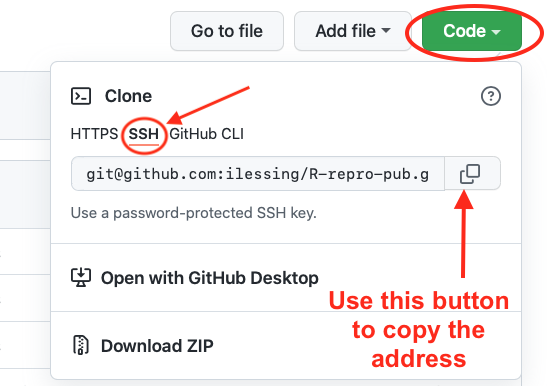
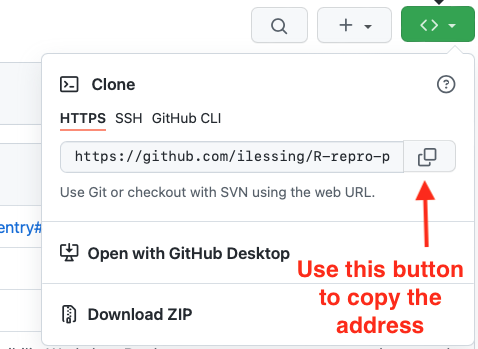
adjust Github lesson for use of PAT instead of SSH
addresses #151

diff --git a/episodes/09-github.md b/episodes/09-github.md
@@ -13,7 +13,7 @@ objectives:
 - "Make changes locally and push them to Github."
 
 keypoints:
-- Setting up R Studio to authenticate with Github using SSH Keys.
+- Setting up R Studio to authenticate with Github using a Personal Authentication Token (PAT).
 - Setting the Git repository _Origin_ in your R Studio project enables _pushing_ and _pulling_ from your local copy of the repository to the repository on Github.
 ---
 
@@ -23,16 +23,21 @@ Terminology:  Git _Push_ and _Pull_
 
 Definition: The process of syncronizing your local git repository with your git repository on Github (or other Git server).
 
-Github used to allow simple Username & Password authentication but now Github requires a more secure method of authentication.  For this workshop we'll be using the Personal Access Token method.  The Personal Access Token (PAT) must be created for your account on github.
+Github used to allow simple Username & Password authentication but now Github requires a more secure method of authentication.  For this workshop we'll be using the Personal Access Token method.  The Personal Access Token (PAT) must be created for your account on github.  You'll use the PAT to authenticate instead of your Github account password.
 
 1. Login to your Github account with your web browser. [https://github.com](https://github.com)
 1. On Github.com go to your account setting -> Developer Settings -> Personal access tokens or this link: [https://github.com/settings/tokens](https://github.com/settings/tokens)
 1. Any tokens you have created in the past will be listed there and you can click "Generate new token" button.  Set an expiration date for your new token and a scope.  For this workshop the "Repo" scope should be sufficient.  Then Generate your new Token with the button at the bottom of the page.
 
 ![](../fig/09-github-new-PAT-options.png)
-1. The next screen github shows you the new token.  **Be sure to copy it** as you only get one chance to see the token text.
+* On the next screen github shows you the new token.  **Be sure to copy it** as you only get one chance to see the token text.
 
-[FIXME] If you cloned the repo from Github already in Episode 5 next step is not necessary.
+> ## Note: 
+>
+> If you cloned the repository from Github in Episode 5 the next 2 steps are not necessary as the "origin" is set as part of the cloning process. 
+{: .callout}
+
+
 ## Getting your repository's URL from Github
 You can get the address of your repository from Github by navigating to your repository on Github.com and clicking the green "Code" button.  Make sure to copy the SSH form of the URL.
 
@@ -42,29 +47,9 @@ With that address you can complete setting the origin URL in the next step.
 
 ## Checking and Setting the "Origin" for the local copy of yoiur repository.
 
-If you forked and cloned the demonstration publication for this workshop as covered in an earlier episode then your copy of the repository should already have the "origin" set.  Once the "origin" is set properly you should be able to push and pull your changes to and from Github.  When you clone a repository from Github your local copy of the repository should have Github set as the "origin".  When you're using SSH to authenticate with Github you'll need to use the SSH form of your repository's URL as your "Origin"
+If you forked and cloned the demonstration publication for this workshop as covered in an earlier episode then your copy of the repository should already have the "origin" set.  Once the "origin" is set properly you should be able to push and pull your changes to and from Github.  When you clone a repository from Github your local copy of the repository should have Github set as the "origin".  
 
 You can check this in Rstudio --> Tools --> Project Options --> Git/SVN
-
-![](../fig/09-rstudio-project-options-git-with-https-origin.png) 
-
-If the "Origin" field has the HTTPS form of your repository's URL then you'll need to update it from the terminal with command like:
-
-![](../fig/09-git-remote-set-url.png)
-
-```
-git remote set-url origin <paste your repository address here>
-```
-
-Be sure to put **your** Github username in the URL.
-
-After you've updated the Origin URL from the command line go back to R Studio --> Tools --> Project Options --> Git/SVN to verify you have the SSH form of the URL in your "Origin" field.  It should look something like this.
-
-![](../fig/09-rstudio-project-options-git-with-ssh-origin.png) 
-
-
-
-----
 
 If the "Origin" field is blank then you'll need to add it from the terminal with a couple of terminal commands like this:
 ```
@@ -72,8 +57,21 @@ git remote add origin <paste your repository address here>
 git fetch --set-upstream origin main
 ```
 
+Be sure **your** Github username is part of the URL.
+
+After you've updated the Origin URL from the command line go back to R Studio --> Tools --> Project Options --> Git/SVN to verify you have the "Origin" field filled in.  It should look like this.
+
+![](../fig/09-rstudio-project-options-git-with-https-origin.png) 
+
+
 ## Push your local changes up to your repository Github.
-With authentication set up and your local copy of your repository pointing to Github as the "Origin" you should be able to make changes and _push_ them up to Github.  Let's try it and see if it works.
+With authentication set up and your local copy of your repository pointing to Github as the "Origin" you should be able to make changes locally and _push_ them up to Github.  
+
+When you are prompted enter your Github username and then paste in your Personal Access Token (PAT) when prompted for your github password.
+
+![](../fig/09-git-mac-password-prompt.png)
+
+ Let's try it and see if it works.
 
 > ## Challenge: Push to Github
 > 
